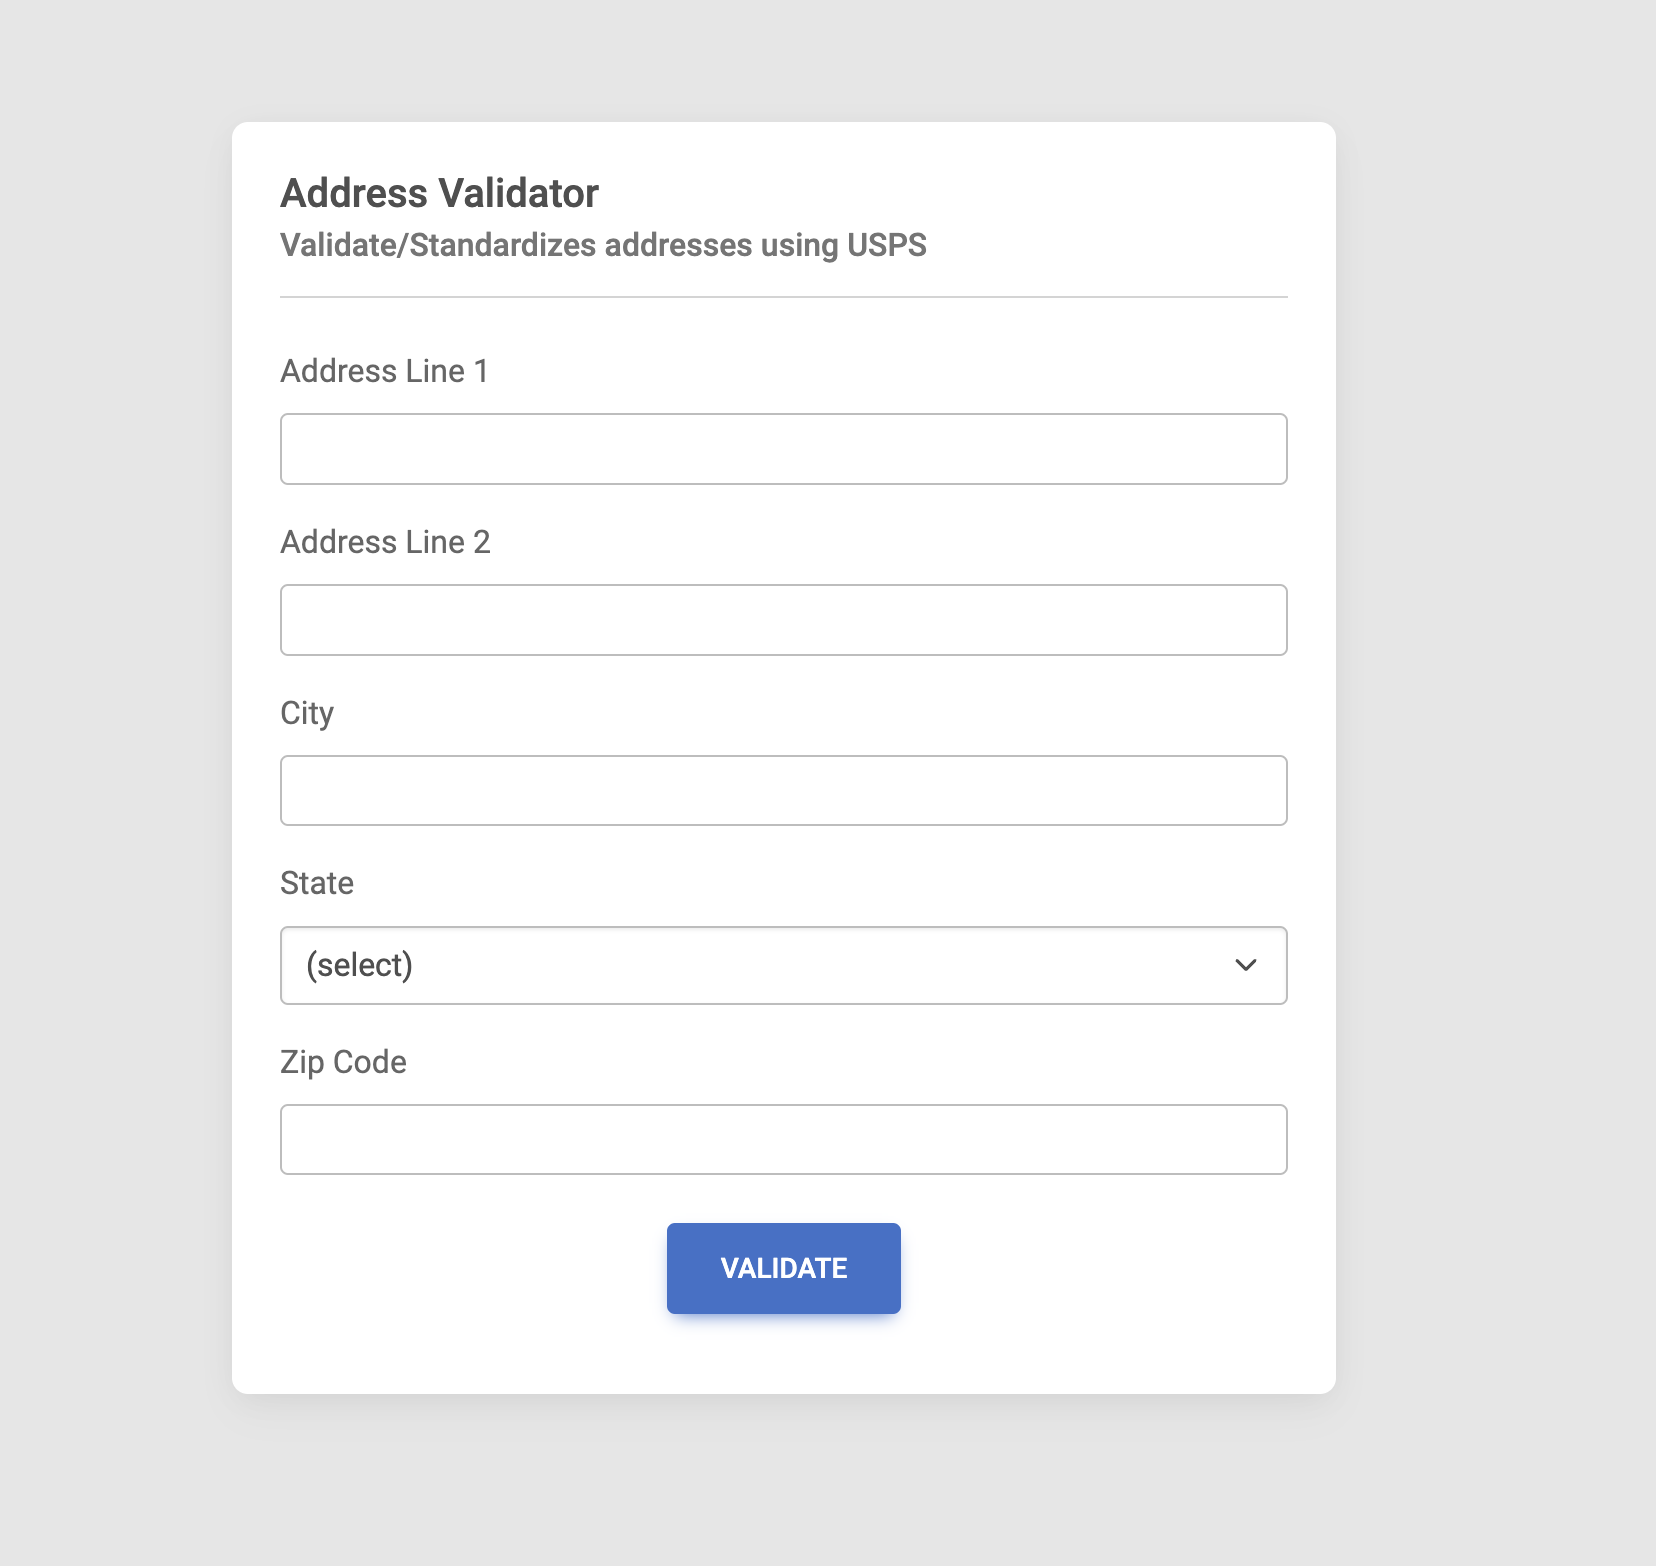
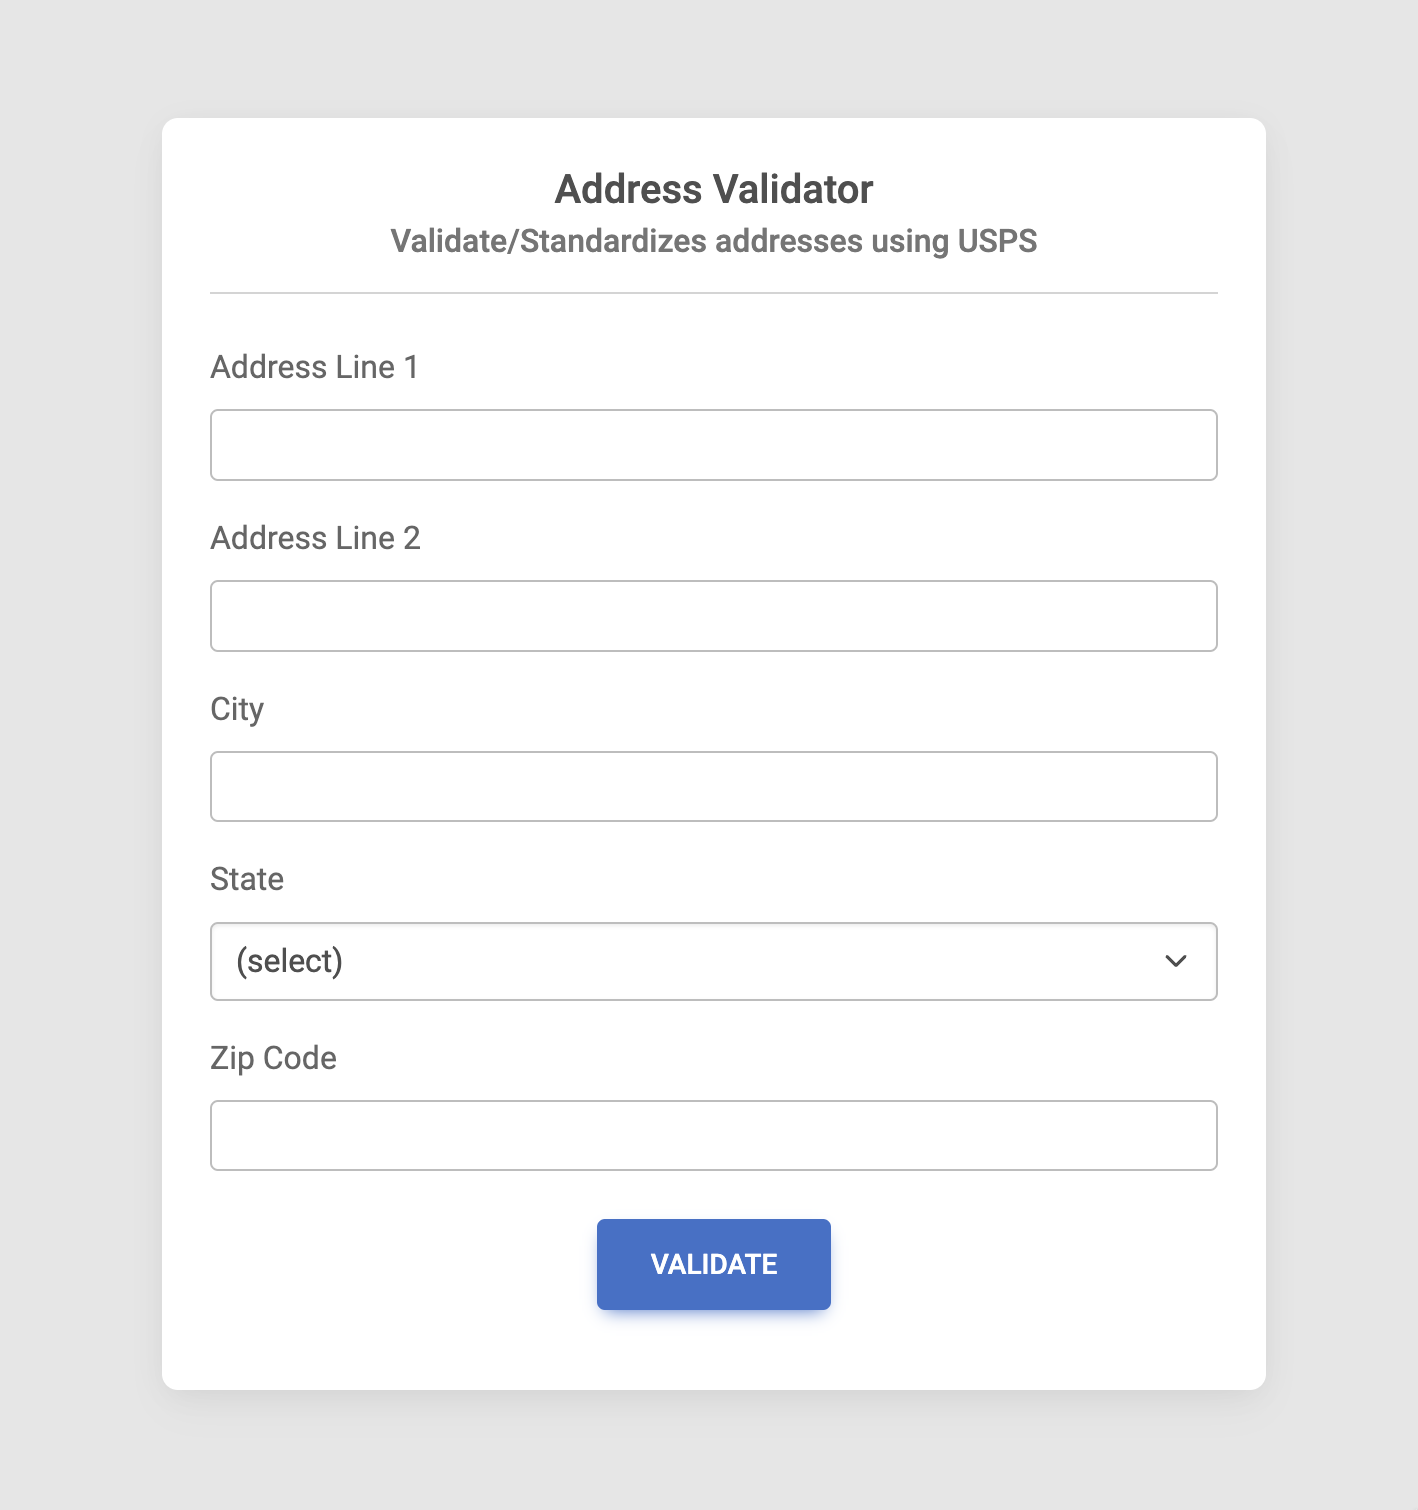
updated ui of verify page and corresponding screenshots

Changed region(s): [[0.0931, 0.0623, 0.8999, 0.9338], [0.7447, 0.5914, 0.7757, 0.6225]]

diff --git a/verify/index.js b/verify/index.js
@@ -1,3 +1,22 @@
+var SELECTED_ADDRESS_TYPE = {
+  ORIGINAL: "ORIGINAL",
+  STANDARDIZED: "STANDARDIZED",
+};
+
+var selectedAddressType = SELECTED_ADDRESS_TYPE.STANDARDIZED;
+
+function saveSelectedAddress() {
+  var addressSection = document.querySelector("div#address-section-" + selectedAddressType);
+
+  var addressLine1 = addressSection.querySelector("label[name='addressLine1']").textContent;
+  var addressLine2 = addressSection.querySelector("label[name='addressLine2']").textContent;
+  var state = addressSection.querySelector("label[name='state']").textContent;
+  var city = addressSection.querySelector("label[name='city']").textContent;
+  var zip = addressSection.querySelector("label[name='zip']").textContent;
+
+  saveAddress(addressLine1, addressLine2, city, state, zip);
+}
+
 function saveAddress(addressLine1, addressLine2, city, state, zip) {
   var formData = new FormData();
   formData.append('addressLine1', addressLine1);
@@ -6,12 +25,51 @@ function saveAddress(addressLine1, addressLine2, city, state, zip) {
   formData.append('state', state);
   formData.append('zip', zip);
 
+  debugger;
+  var errorDiv = document.querySelector("#error");
+  errorDiv.classList.add("d-none");
+
   fetch('/api/save-address.php', {
     method: "POST",
     body: formData,
   })
   .then((response) => {
-    console.log(response);
-    window.location.href = "/saved";
+    debugger;
+    if (response.status === 200) {
+      console.log(response);
+      window.location.href = "/saved";
+    }
+    else {
+      errorDiv.classList.remove("d-none");
+    }
+  })
+  .catch((err) => {
   });
 }
+
+function highlightCorrectAddressButton() {
+  var radios = document.querySelectorAll('input[name="address-selection"]');
+  
+  for (var radio of radios) {
+    var correspondingLabel = document.querySelector("label[for='" + radio.id + "']");
+
+    if (radio.checked) {
+      selectedAddressType = radio.value.toUpperCase();
+
+      correspondingLabel.classList.add("btn-primary");
+      correspondingLabel.classList.remove("btn-light");
+    }
+    else {
+      correspondingLabel.classList.add("btn-light");
+      correspondingLabel.classList.remove("btn-primary");
+    }
+  }
+}
+
+document.addEventListener("DOMContentLoaded", () => {
+  var radios = document.querySelectorAll('input[name="address-selection"]');
+
+  for (var radio of radios) {
+    radio.onclick = highlightCorrectAddressButton;
+  }
+});

diff --git a/verify/index.php b/verify/index.php
@@ -1,5 +1,5 @@
 <?php
-require '../helper/index.php';
+require $_SERVER['DOCUMENT_ROOT'] . '/helper/index.php';
 
 $addressLine1 = sanitize($_POST['addressLine1']);
 $addressLine2 = sanitize($_POST['addressLine2']);
@@ -45,8 +45,8 @@ if ($xml === false) {
   }
 } else {
   $err = (string) $xml->Address->Error->Description;
-  $standardizedAddressLine1 = (string) $xml->Address->Address1;
-  $standardizedAddressLine2 = (string) $xml->Address->Address2;
+  $standardizedAddressLine1 = (string) $xml->Address->Address2;
+  $standardizedAddressLine2 = (string) $xml->Address->Address1;
   $standardizedCity = (string) $xml->Address->City;
   $standardizedState = (string) $xml->Address->State;
   $standardizedZip5 = (string) $xml->Address->Zip5;
@@ -75,41 +75,58 @@ if ($xml === false) {
     <div class="col-8 offset-2 col-sm-4 offset-sm-4 d-flex align-items-center">
       <div class="w-100 card">
         <div class="card-body">
+          <div class="card-title text-center h5 mb-4">Save Address</div>
+
+          <div class="row mb-3">
+            <div class="col-12 d-flex justify-content-center">
+              <div class="btn-group" role="group">
+                <input type="radio" class="btn-check" name="address-selection" id="original" value="ORIGINAL" autocomplete="off">
+                <label class="btn btn-light" for="original">Original</label>
+                
+                <input type="radio" class="btn-check" name="address-selection" id="standardized" value="STANDARDIZED" autocomplete="off" checked>
+                <label class="btn btn-primary" for="standardized">Standardized</label>
+              </div>
+            </div>
+          </div> 
           <div class="row">
             <div class="col-12 col-sm-6 mb-3 mb-sm-0 p-2">
-              <div class="border p-2 rounded">
+              <div class="border p-2 rounded" id="address-section-ORIGINAL">
                 <div class="fw-bold mb-3">Original Address</div>
 
-                <div>Address Line 1: <?= $addressLine1 ?></div>
-                <div>Address Line 2: <?= $addressLine2 ?></div>
-                <div>City: <?= $city ?></div>
-                <div>State: <?= $state ?></div>
-                <div>Zip: <?= $zip ?></div>
-
-                <div class="d-flex justify-content-center my-2">
-                  <button class="btn btn-primary" onclick="saveAddress('<?= $addressLine1 ?>', '<?= $addressLine2 ?>', '<?= $city ?>', '<?= $state ?>', '<?= $zip ?>')">
-                    Save
-                  </button>
-                </div>
+                <div>Address Line 1: <label name="addressLine1"><?= $addressLine1 ?></label></div>
+                <div>Address Line 2: <label name="addressLine2"><?= $addressLine2 ?></label></div>
+                <div>City: <label name="city"><?= $city ?></label></div>
+                <div>State: <label name="state"><?= $state ?></label></div>
+                <div>Zip: <label name="zip"><?= $zip ?></label></div>
               </div>
             </div>
 
             <div class="col-12 col-sm-6 mb-3 mb-sm-0 p-2">
-              <div class="border p-2 rounded">
+              <div class="border p-2 rounded" id="address-section-STANDARDIZED">
                 <div class="fw-bold mb-3">Standardized Address</div>
   
-                <div>Address Line 1: <?= $standardizedAddressLine1 ?></div>
-                <div>Address Line 2: <?= $standardizedAddressLine2 ?></div>
-                <div>City: <?= $standardizedCity ?></div>
-                <div>State: <?= $standardizedState ?></div>
-                <div>Zip: <?= $standardizedZip5 ?></div>
-  
-                <div class="d-flex justify-content-center my-2">
-                  <button class="btn btn-primary" onclick="saveAddress('<?= $standardizedAddressLine1 ?>', '<?= $standardizedAddressLine2 ?>', '<?= $standardizedCity ?>', '<?= $standardizedState ?>', '<?= $standardizedZip5 ?>')">
-                    Save
-                  </button>
-                </div>
+                <div>Address Line 1: <label name="addressLine1"><?= $standardizedAddressLine1 ?></label></div>
+                <div>Address Line 2: <label name="addressLine2"><?= $standardizedAddressLine2 ?></label></div>
+                <div>City: <label name="city"><?= $standardizedCity ?></label></div>
+                <div>State: <label name="state"><?= $standardizedState ?></label></div>
+                <div>Zip: <label name="zip"><?= $standardizedZip5 ?></label></div>
               </div>
+            </div>
+          </div>
+
+          <div class="row mt-3 d-none" id="error">
+            <div class="col-12">
+              <div class="alert text-center alert-danger">
+                Something went wrong.
+              </div>
+            </div>
+          </div>
+
+          <div class="row mt-3">
+            <div class="col-12 text-center">
+              <button class="btn btn-lg btn-primary" onclick="saveSelectedAddress()">
+                Save
+              </button>
             </div>
           </div>
         </div>

diff --git a/index.php b/index.php
@@ -26,8 +26,8 @@
     <div class="col-8 offset-2 col-sm-4 offset-sm-4 d-flex align-items-center">
       <div class="w-100 card">
         <div class="card-body">
-          <div class="card-title h5">Address Validator</div>
-          <div class="mb-2 text-muted card-subtitle h6">Validate/Standardizes addresses using USPS</div>
+          <div class="card-title text-center h5">Address Validator</div>
+          <div class="mb-2 text-muted text-center card-subtitle h6">Validate/Standardizes addresses using USPS</div>
           <hr>
           <div class="mt-4">
             <form class="w-100" name="addressForm" action="/verify" onsubmit="return validation()" method="POST">

diff --git a/saved/index.php b/saved/index.php
@@ -21,10 +21,8 @@
     <div class="col-8 offset-2 col-sm-4 offset-sm-4 d-flex align-items-center">
       <div class="w-100 card">
         <div class="card-body">
-          <div class="text-center text-success">
-            <h6 class="mb-0">Address Saved Successfully</h6>
-          </div>
-
+          <div class="card-title h5 mb-4 text-center text-success">Address Saved Successfully</div>
+          
           <div class="text-center mt-4">
             <a class="btn btn-primary" href="/">Verify another address</a>
           </div>

diff --git a/api/save-address.php b/api/save-address.php
@@ -1,6 +1,7 @@
 <?php
-require '../helper/database.php';
-require '../helper/index.php';
+require $_SERVER['DOCUMENT_ROOT'] . '/helper/exception-handler.php';
+require $_SERVER['DOCUMENT_ROOT'] . '/helper/database.php';
+require $_SERVER['DOCUMENT_ROOT'] . '/helper/index.php';
 
 $addressLine1 = sanitize($_POST['addressLine1']);
 $addressLine2 = sanitize($_POST['addressLine2']);

diff --git a/helper/exception-handler.php b/helper/exception-handler.php
@@ -1,0 +1,10 @@
+<?php
+
+function exception_handler(Throwable $exception) {
+  header($_SERVER['SERVER_PROTOCOL'] . ' 500 Internal Server Error', true, 500);
+  print_r("Uncaught exception: " . $exception->getMessage());
+}
+
+set_exception_handler('exception_handler');
+
+?>
